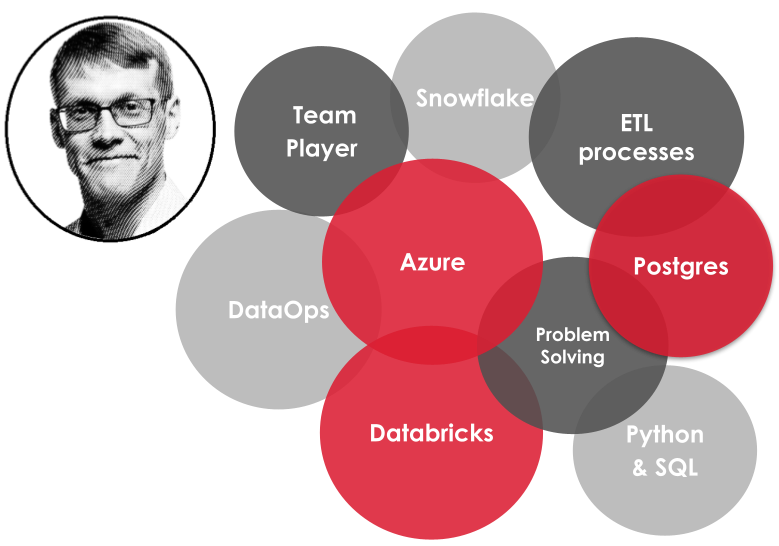
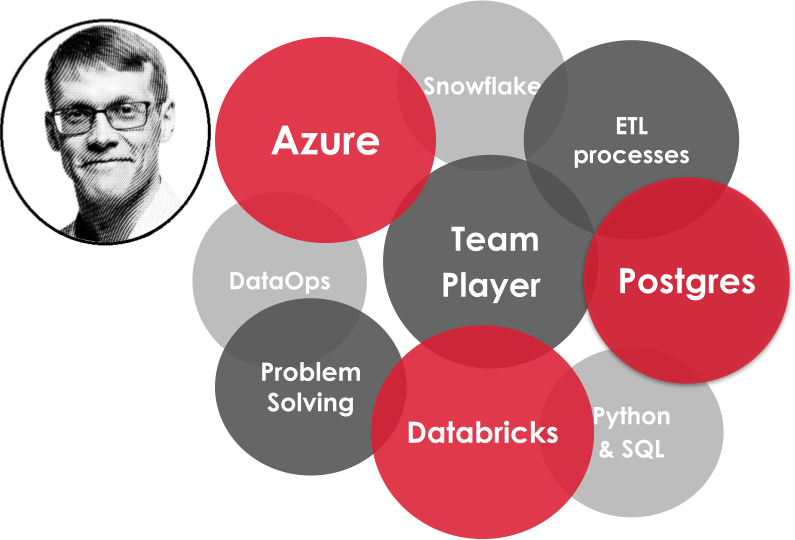
reorganize pics

diff --git a/academic.md b/academic.md
@@ -240,7 +240,7 @@ Tools and keywords: **MATLAB**, **data analysis**, **MEA**, **hiPS-CM**
 
 Developed method and tool (DatAnalyzer) to analyze field potential (FP) signals from 2D human induced pluripotent stem cells derived cardiomyocyte (hiPSC-CM) cultures. I summarized how FP signals have been analyzed various, sometimes even contradictory, ways in the literature, and proposed my own methdod that could be considered.
 
-![DatAnalyzer in action](/pics/DatAnalyzer.png)
+![DatAnalyzer in action](/pics/project/DatAnalyzer.png)
 
 Software has been used at least in the following publications:
 > Gaballah et al. (2022) https://doi.org/10.3390/cells11061045
@@ -260,7 +260,7 @@ Do you want to use LaTeX for you (scientific) paper, but struggling when co-auth
 For example, this paper freely available [here](https://ieeexplore.ieee.org/document/10242335) was written using this tool.
 > A. -J. Mäki, J. T. Koivumäki, J. Hyttinen and P. Kallio, "Simulation-Based Study of Control Strategies for Beating of Human Cardiomyocyte Cultures," in IEEE Transactions on Automation Science and Engineering, doi: 10.1109/TASE.2023.3309668.
 
-![How to write LaTeX documents using Word](/pics/write_latex_documents_with_Word.png)
+![How to write LaTeX documents using Word](/pics/projects/write_latex_documents_with_Word.png)
 
 ## Plot Fluke Ti400 thermal images
 Plot Thermal images from Fluke Ti400 using MATLAB, code available in: https://github.com/AnaHill/Plot_Fluke_Ti400_thermal_images

diff --git a/work.md b/work.md
@@ -20,7 +20,7 @@ Passionate and experienced data guy. Currently, working as a **Data Engineer [@S
 
 ## 🛠 Skill & Tools
 <!-- TODO: more text,  -->
-![my_expertise](pics/bubble_expertise.png)
+![my_expertise](pics/ajm_de_bubble.png)
 
 <br>
 <p align="left">
@@ -91,7 +91,7 @@ Tools: **MATLAB**
     I summarized how FP signals have been analyzed in various—sometimes even contradictory—ways in the literature and proposed my own method that could be considered.
   </p>
   <p>
-    <img src="/pics/DatAnalyzer.png" alt="DatAnalyzer in action" style="max-width: 100%; height: auto;">
+    <img src="/pics/projects/DatAnalyzer.png" alt="DatAnalyzer in action" style="max-width: 100%; height: auto;">
   </p>
 </details>
 
@@ -121,6 +121,6 @@ Tools: **Powershell**, **Pandoc**, **LaTeX**, **Markdown**
     DOI: <a href="https://doi.org/10.1109/TASE.2023.3309668" target="_blank">10.1109/TASE.2023.3309668</a>.
   </blockquote>
   <p>
-    <img src="/pics/write_latex_documents_with_Word.png" alt="How to write LaTeX documents using Word" style="max-width: 100%; height: auto;">
+    <img src="/pics/projects/write_latex_documents_with_Word.png" alt="How to write LaTeX documents using Word" style="max-width: 100%; height: auto;">
   </p>
 </details>
